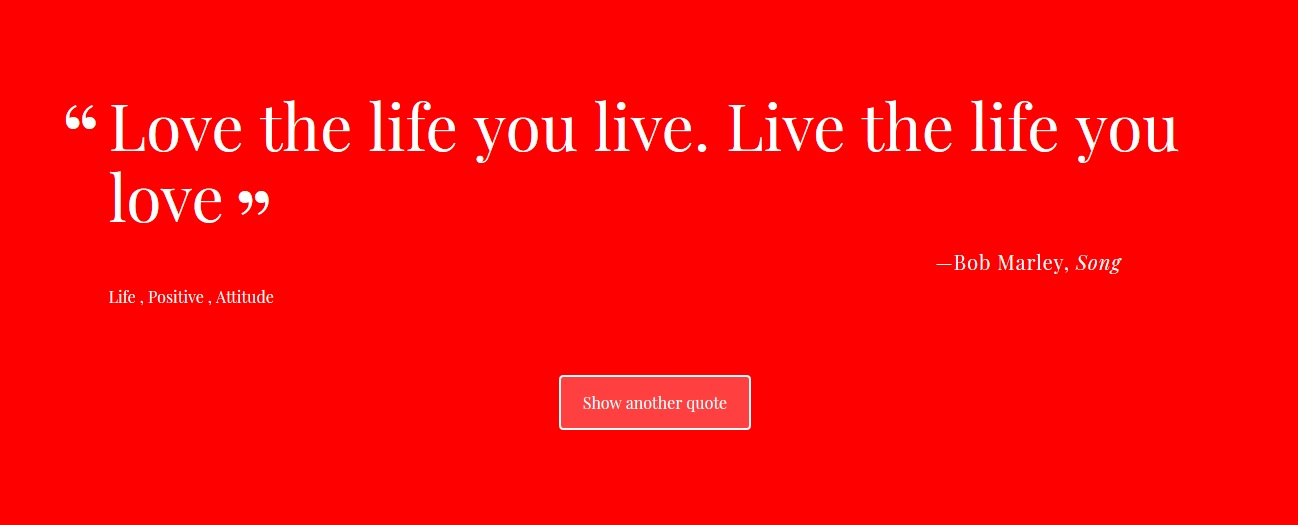
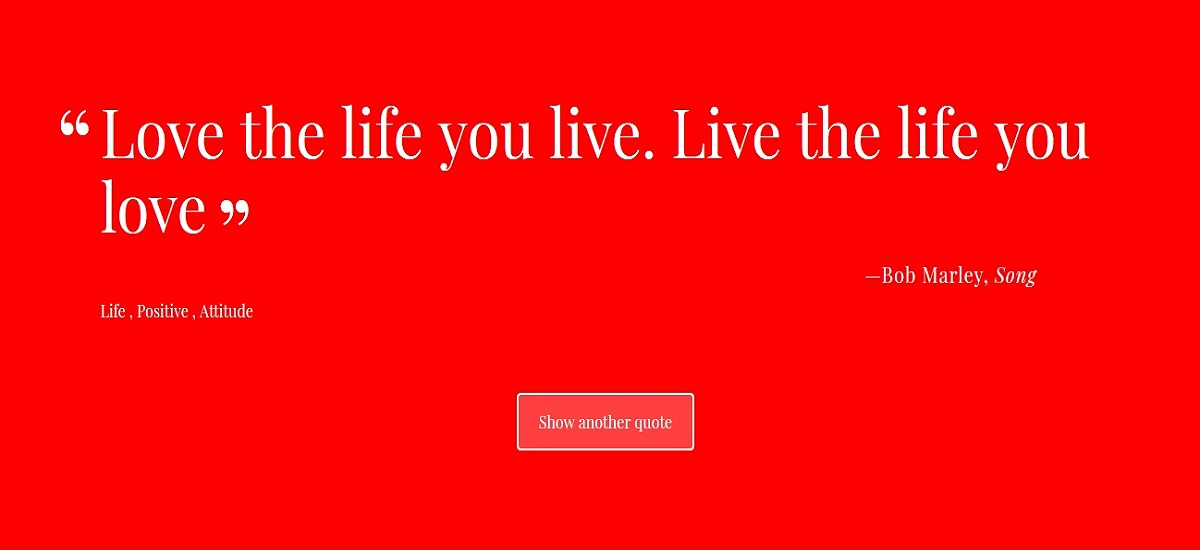
update pictures

diff --git a/public/css/style.css b/public/css/style.css
@@ -18,10 +18,10 @@ h1,h2,h3,h4,h5,p{
   }
 
   p{
-    font-family: 'Segoe UI', Tahoma, Geneva, Verdana, sans-serif;
-    font-size: 18px;
+    font-family: Arial, sans-serif;
+    font-size: 19px;
     font-weight: bold;
-    color: rgb(194, 111, 3);
+    color: rgb(122, 57, 4);
     line-height: 2;
   }
 
@@ -38,12 +38,13 @@ h1,h2,h3,h4,h5,p{
 
 .button{
   font-weight: bold;
-  background-color: #333;
+  background-color: rgb(66, 83, 67);
+  border-radius: 50%;
 }
 
 .button:hover{
   font-weight: bold;
-  background-color: #111;
+  background-color: rgb(38, 2, 54);
 }
 
 a{

diff --git a/app.js b/app.js
@@ -31,7 +31,7 @@ app.use('/projects/:id' , (req,res,next) => {
         });
     else
     {
-        const err = new Error('Not Found');
+        const err = new Error('Page Not Found.');
         err.status = 404;
         next(err);
     }
@@ -39,7 +39,7 @@ app.use('/projects/:id' , (req,res,next) => {
 });
 
 app.use( (req,res,next) => {
-    const err = new Error('Not Found');
+    const err = new Error('Page Not Found.');
     err.status = 404;
     next(err);
 });
